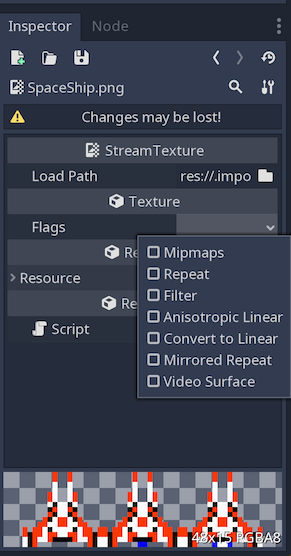
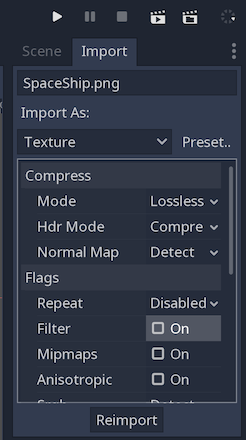
Use the import tab to turn off Filter globally update, md instead of markdown extensions

diff --git a/_posts/2018-05-06-aseprite-import-in-godot-3.md b/_posts/2018-05-06-aseprite-import-in-godot-3.md
@@ -136,10 +136,12 @@ time, it should close normally again.
 ### A quick note on the pixel perfect look
 
 If your sprite is looking blurry, it's because texture resource data such as our
-png default to having `Filter` on.  You can open your png file from Godot by
-double clicking it from the FileSystem pane.  Then in your inspector make sure
-the Flags are all unchecked, but, specifically `Filter`.  If you had to make
-changes, be sure to save them now.  Here's what my sprite sheet png looks like.
+png default to having `Filter` on.  We can turn the `Filter` property off
+globally by using the `Import` tab (the one to the right of `Scene`).  With the
+png selected in our `FileSystem` tab, let's take a look at the `Filter` property
+on the `Import` tab and make sure we have it unchecked.  If it was previously
+checked and we changed it to being unchecked now, we will have to also click the
+`Reimport` button.
 
 ![Godot 3 Png Turn Off Filter]({{ "/assets/images/godot-aseprite/godot-png-filter-off.png" | absolute_url }})
 

diff --git a/_drafts/pixel-perfect-thoughts-and-godot-3.md b/_drafts/pixel-perfect-thoughts-and-godot-3.md
@@ -1,0 +1,17 @@
+---
+layout: post
+title:  "How to Create the Pixel Perfect Look in Godot 3"
+date:   2018-05-10 04:56:40 -0400
+categories: blog godot3 pixelart
+---
+
+### Introduction
+
+There's always a few tips and tricks in creating a pixel art game depending on
+which engine you use.  I'm hoping some of the concepts and tricks that I show
+you here can be put to use on your next game whether it's made in Godot 3 or
+anything else for that matter.
+
+### Godot 3 Project Settings For Pixel Perfect 2D
+
+### Wrap up
